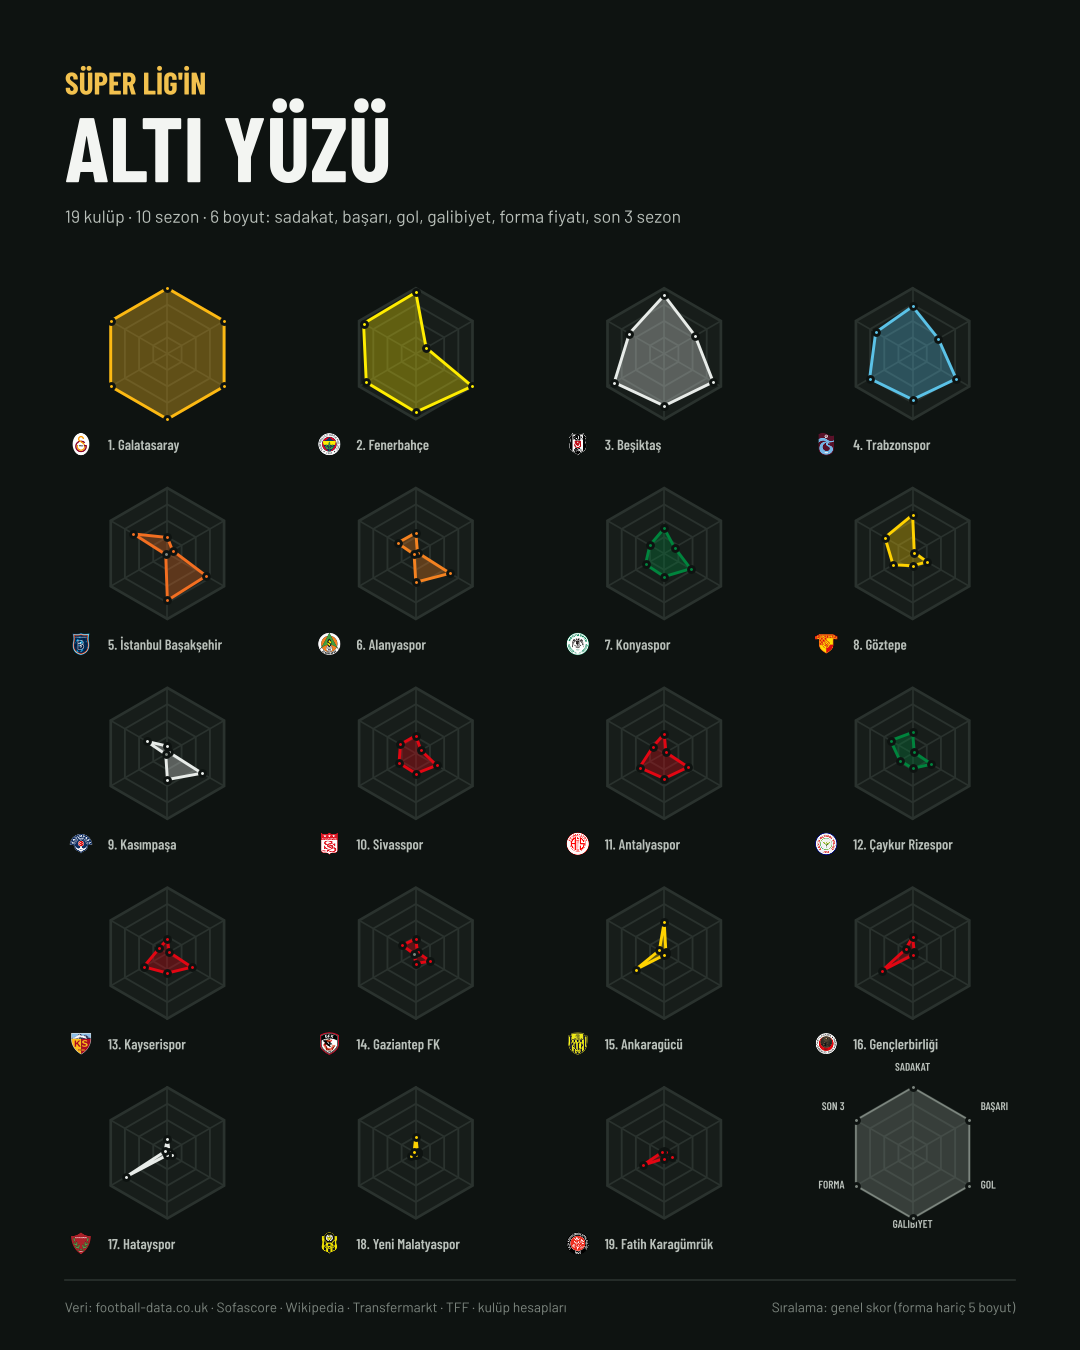
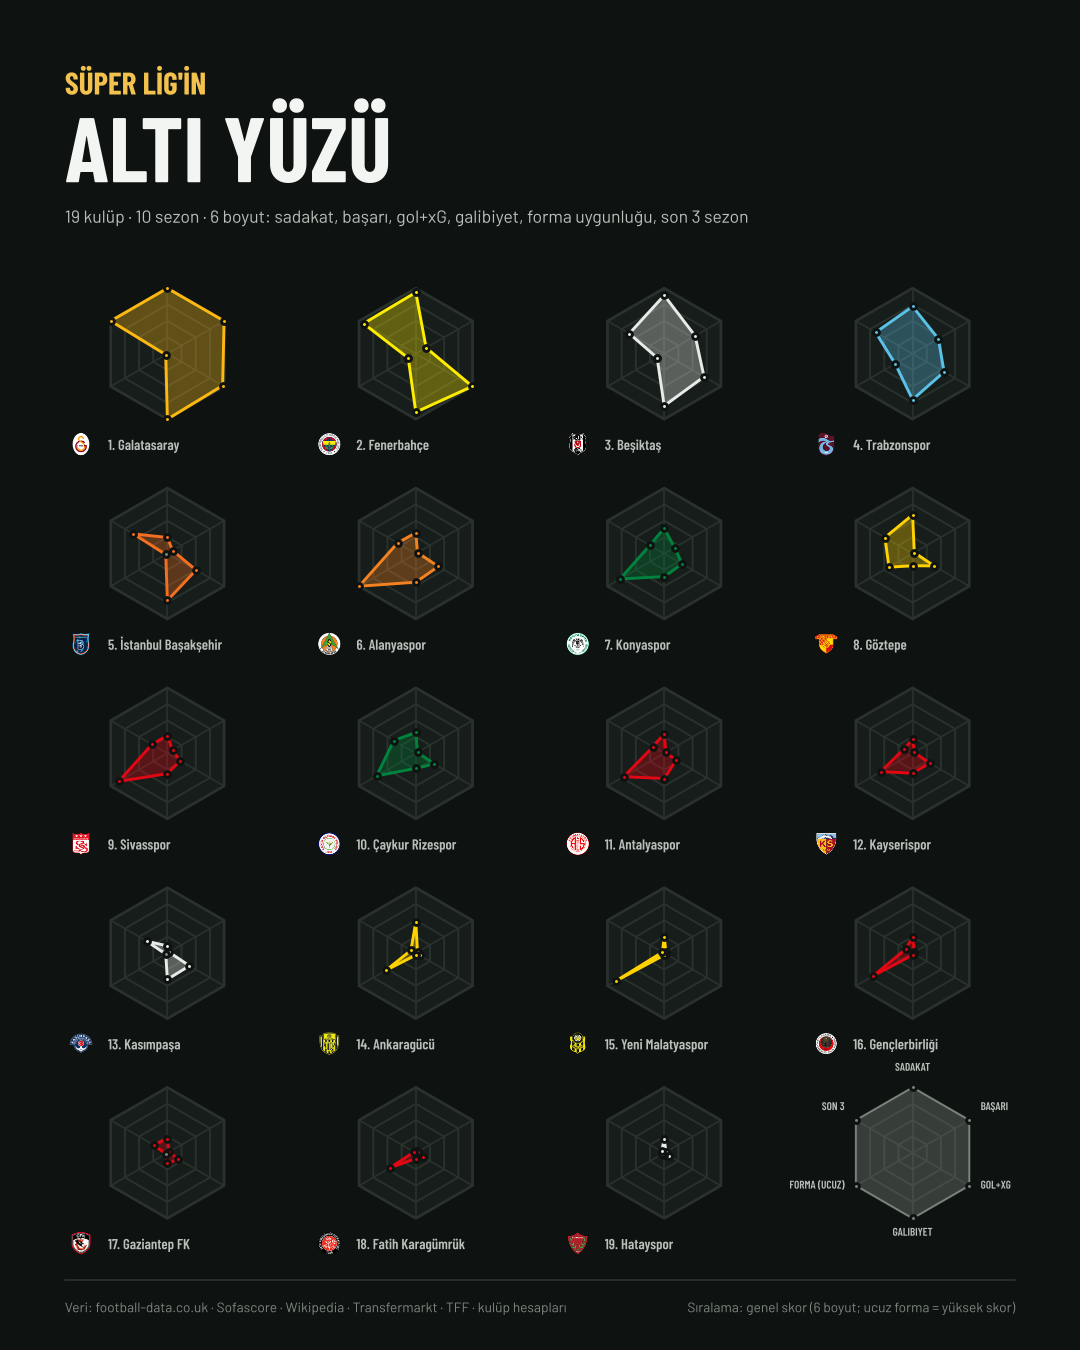
Radar: forma ters yönlü (sezon medyanına göre fiyat endeksi), gol ekseni gol + xG; genel skor 6 boyut
Claude-Session: https://claude.ai/code/session_01ReEgfLLAVrHg6JcMw2u4FY

diff --git a/superlig/insta.py b/superlig/insta.py
@@ -125,6 +125,8 @@ def radar(ax, scores, color, avg=None, labels=None, label_vals=None, lw=2.4, lab
                    edgecolor=BG, linewidth=1.4, zorder=5)
     if labels:
         for (x, y), lab, v in zip(_hex_points(1.2), labels, label_vals or [None] * 6):
+            if y < -1:  # alt etiket köşeye değmesin
+                y -= 0.12 if v is None else 0.0
             ha = "center" if abs(x) < 0.1 else ("left" if x > 0 else "right")
             ax.text(x, y + 0.02, lab.upper(), ha=ha, va="bottom", fontsize=label_size * 0.72, color=INK2,
                     family=COND, weight="semibold")
@@ -139,9 +141,9 @@ def _forma_sub(row):
     if pd.isna(n):
         return "fiyat verisi bulunamadı"
     if n < 2:
-        return f"reel ort. · yalnız {row.forma_ilk_sezon} ({_tr(row.forma_ort_TL)} TL)"
-    return (f"{row.forma_ilk_sezon[:4]}–{row.forma_son_sezon[2:4]}: {_pct(row.forma_artis_yuzde)} "
-            f"(reel {_pct(row.get('forma_reel_artis_yuzde'))}) · {int(n)} sz")
+        return f"sezon medyanı ×{_tr(row.forma_endeks, 2)} · yalnız {row.forma_ilk_sezon}"
+    return (f"medyan ×{_tr(row.forma_endeks, 2)} · {row.forma_ilk_sezon[:4]}–{row.forma_son_sezon[2:4]}: "
+            f"{_pct(row.forma_artis_yuzde)} (reel {_pct(row.get('forma_reel_artis_yuzde'))})")
 
 
 def _pct(x):
@@ -169,7 +171,7 @@ def team_card(row, avg, rank, n, path):
     vals = ["veri yok" if pd.isna(v) else _tr(v) for v in scores]
     radar(ax, scores, col, avg=avg, labels=[l for _, l in scorecard.AXES], label_vals=vals)
     fig.add_artist(plt.Line2D([0.235, 0.275], [0.338, 0.338], color=MUTED, lw=1.1, ls=(0, (3, 2.5))))
-    _text(fig, 0.285, 0.338, "lig ortalaması (19 kulüp)  ·  skorlar 0-100  ·  genel skor forma hariç", 7.2, MUTED,
+    _text(fig, 0.285, 0.338, "lig ortalaması (19 kulüp)  ·  skorlar 0-100  ·  forma: ucuz = yüksek skor", 7.2, MUTED,
           va="center")
 
     tiles = [
@@ -177,7 +179,7 @@ def team_card(row, avg, rank, n, path):
          f"doluluk · {_compact(row.get('takipci_toplam'))} takipçi ({_tr(row.get('takipci_platform'))} platform)"),
         ("BAŞARI", _tr(row.get("kupa_10y")) + (" kupa" if pd.notna(row.get("kupa_10y")) else ""),
          f"Lig {_tr(row.get('super_lig'))} · Kupa {_tr(row.get('turkiye_kupasi'))} · Süper K. {_tr(row.get('super_kupa'))}"),
-        ("GOL", _tr(row.gol_10y), f"maç başı {_tr(row.gol_10y / row.mac, 2)}"
+        ("GOL + xG", _tr(row.gol_10y), f"maç başı {_tr(row.gol_10y / row.mac, 2)}"
          + (f" · xG {_tr(row.xg_mac_basi, 2)} (22-26)" if pd.notna(row.get("xg_mac_basi")) else f" · {_tr(row.sezon_sayisi)} sezon")),
         ("GALİBİYET", _tr(row.galibiyet_10y), f"{_tr(row.mac)} maçta · %{_tr(row.galibiyet_10y / row.mac * 100)}"),
         ("FORMA", (_tr(row.get("forma_reel_ort_TL")) + " TL") if pd.notna(row.get("forma_reel_ort_TL")) else "—",
@@ -204,7 +206,7 @@ def cover(df, avg, path):
     fig = _fig()
     _text(fig, 0.06, 0.93, "SÜPER LİG'İN", 15, GOLD, COND, "bold")
     _text(fig, 0.06, 0.865, "ALTI YÜZÜ", 44, INK, COND, "bold")
-    _text(fig, 0.06, 0.835, "19 kulüp · 10 sezon · 6 boyut: sadakat, başarı, gol, galibiyet, forma fiyatı, son 3 sezon",
+    _text(fig, 0.06, 0.835, "19 kulüp · 10 sezon · 6 boyut: sadakat, başarı, gol+xG, galibiyet, forma uygunluğu, son 3 sezon",
           8.4, INK2)
     cols, rows = 4, 5
     gx0, gy0, cw, ch = 0.04, 0.07, 0.23, 0.148
@@ -218,9 +220,9 @@ def cover(df, avg, path):
     # son hücre: eksen açıklaması
     x, y = gx0 + 3 * cw, gy0
     ax = fig.add_axes([x, y + 0.012, cw, ch - 0.02])
-    radar(ax, [100] * 6, MUTED, lw=0.8, labels=["Sadakat", "Başarı", "Gol", "Galibiyet", "Forma", "Son 3"],
+    radar(ax, [100] * 6, MUTED, lw=0.8, labels=["Sadakat", "Başarı", "Gol+xG", "Galibiyet", "Forma (ucuz)", "Son 3"],
           label_size=7.5)
-    _footer(fig, "Sıralama: genel skor (forma hariç 5 boyut)")
+    _footer(fig, "Sıralama: genel skor (6 boyut; ucuz forma = yüksek skor)")
     fig.savefig(path, dpi=DPI, facecolor=BG)
     plt.close(fig)
 
@@ -231,11 +233,12 @@ METRIC_SLIDES = [
      lambda r: f"%{_tr(r.get("doluluk_10y", float("nan")) * 100)} doluluk · {_compact(r.get("takipci_toplam"))} takipçi" if pd.notna(r.get("doluluk_10y")) else _compact(r.get("takipci_toplam"))),
     ("basari", "BAŞARI", "10 yılda Süper Lig + Türkiye Kupası + Süper Kupa", "kupa_10y",
      lambda r: f"{_tr(r.kupa_10y)} kupa"),
-    ("gol", "GOL", "10 yılda Süper Lig'de atılan gol", "gol_10y", lambda r: f"{_tr(r.gol_10y)}  ({int(r.sezon_sayisi)} sz)"),
+    ("gol", "GOL + xG", "Skor: 10 yıllık lig golü + maç başı xG (2022-26), eşit ağırlık", "skor_gol",
+     lambda r: f"{_tr(r.gol_10y)} gol · xG/maç {_tr(r.get('xg_mac_basi'), 2)}"),
     ("galibiyet", "GALİBİYET", "10 yılda Süper Lig galibiyeti", "galibiyet_10y",
      lambda r: f"{_tr(r.galibiyet_10y)}  ({int(r.sezon_sayisi)} sz)"),
-    ("forma", "FORMA FİYATI", "10 yıllık ev forması ortalaması (TÜFE ile reel, güncel TL)", "forma_reel_ort_TL",
-     lambda r: f"{_tr(r.forma_reel_ort_TL)} TL reel · {int(r.forma_sezon)} sz"),
+    ("forma", "FORMA UYGUNLUĞU", "Ucuzdan pahalıya: ev forması fiyatı ÷ aynı sezonun medyan fiyatı (ortalama)", "skor_forma",
+     lambda r: f"medyan ×{_tr(r.forma_endeks, 2)} · reel {_tr(r.forma_reel_ort_TL)} TL · {int(r.forma_sezon)} sz"),
     ("form", "SON 3 SEZON", "2023-24 – 2025-26 puan ortalaması", "son3_puan_ort",
      lambda r: f"{_tr(r.son3_puan_ort, 1)} p · ort. sıra {_tr(r.son3_sira_ort, 1)}"),
 ]
@@ -258,7 +261,7 @@ def metric_slide(df, key, title, subtitle, col, fmt, path, page, weak=None, weak
         _text(fig, 0.075, y, str(i + 1), 13, GOLD if i < 3 else MUTED, COND, "bold", ha="right", va="center")
         _place_logo(fig, r.takim, 0.115, y, 34)
         _text(fig, 0.15, y, r.takim, 12, INK, COND, "semibold", va="center")
-        x0, wmax = 0.42, 0.31
+        x0, wmax = 0.42, 0.25
         w = wmax * (r[col] / vmax if vmax else 0)
         low = bool(weak(r)) if weak else False
         fig.add_artist(FancyBboxPatch((x0, y - rowh * 0.24), max(w, 0.004), rowh * 0.48,

diff --git a/superlig/scorecard.py b/superlig/scorecard.py
@@ -3,9 +3,9 @@
 Boyutlar:
  1. Sadakat   : 10 yıllık ortalama doluluk (seyirci/kapasite) + sosyal medya takipçisi (log, normalize)
  2. Başarı    : 10 yılda Süper Lig + Türkiye Kupası + Süper Kupa sayısı
- 3. Gol       : 10 yılda lig golü toplamı
+ 3. Gol + xG  : 10 yılda lig golü toplamı + maç başı xG (2022-26), eşit ağırlık
  4. Galibiyet : 10 yılda lig galibiyeti toplamı
- 5. Forma     : 10 yıllık ev forması ortalama fiyatı, ilk→son artış %, TÜFE ile reel fiyat
+ 5. Forma     : 10 yıllık ev forması reel ortalama fiyatı — TERS yönlü (ucuz = yüksek skor)
  6. Form      : son 3 sezon puan ortalaması + sıralama ortalaması
 
 Alt ajan çıktıları data/agents/<ad>/ altından okunur; dosya yoksa ilgili kolonlar boş kalır.
@@ -25,8 +25,8 @@ TEAMS19 = ["Galatasaray", "Fenerbahçe", "Beşiktaş", "Trabzonspor", "İstanbul
 AG = config.DATA / "agents"
 LAST3 = config.SEASONS[-3:]
 PLATFORMS = ["Instagram", "X", "Facebook", "TikTok", "YouTube"]
-AXES = [("sadakat", "Sadakat"), ("basari", "Başarı"), ("gol", "Gol"), ("galibiyet", "Galibiyet"),
-        ("forma", "Forma fiyatı"), ("form", "Son 3 sezon")]
+AXES = [("sadakat", "Sadakat"), ("basari", "Başarı"), ("gol", "Gol + xG"), ("galibiyet", "Galibiyet"),
+        ("forma", "Forma uygunluğu"), ("form", "Son 3 sezon")]
 
 
 def _read(path, **kw):
@@ -108,7 +108,10 @@ def build() -> pd.DataFrame:
                 return float(c.tufe_2003_100.iloc[-1]) if not c.empty else np.nan
             f["reel_fiyat_TL"] = f.fiyat_TL * base / f.sezon.map(deflator)
             df.attrs["reel_baz"] = base_lbl
+        # Dönem yanlılığını gidermek için: fiyat / aynı sezondaki tüm kulüplerin medyan fiyatı
+        f["sezon_endeksi"] = f.fiyat_TL / f.groupby("sezon").fiyat_TL.transform("median")
         agg = f.groupby("takim").agg(forma_sezon=("sezon", "size"), forma_ort_TL=("fiyat_TL", "mean"),
+                                     forma_endeks=("sezon_endeksi", "mean"),
                                      forma_ilk_sezon=("sezon", "min"), forma_son_sezon=("sezon", "max"))
         first = f.sort_values("sezon").groupby("takim").fiyat_TL.first()
         last = f.sort_values("sezon").groupby("takim").fiyat_TL.last()
@@ -135,16 +138,22 @@ def build() -> pd.DataFrame:
         parts.append(df.sosyal_skor)
     sc["sadakat"] = pd.concat(parts, axis=1).mean(axis=1) if parts else np.nan
     sc["basari"] = _minmax(df.kupa_10y) if "kupa_10y" in df else np.nan
-    sc["gol"] = _minmax(df.gol_10y)
+    # Gol: 10 yıllık lig golü + maç başı xG (2022-23 – 2025-26) eşit ağırlık; xG yoksa yalnız gol
+    sc["gol_ham"] = _minmax(df.gol_10y)
+    sc["xg_ham"] = _minmax(df.xg_mac_basi) if "xg_mac_basi" in df else np.nan
+    sc["gol"] = sc[["gol_ham", "xg_ham"]].mean(axis=1)
+    sc = sc.drop(columns=["gol_ham", "xg_ham"])
     sc["galibiyet"] = _minmax(df.galibiyet_10y)
-    col = "forma_reel_ort_TL" if "forma_reel_ort_TL" in df else ("forma_ort_TL" if "forma_ort_TL" in df else None)
-    sc["forma"] = _minmax(df[col]) if col else np.nan
+    # Forma ters yönlü: sezon medyanına göre ucuz forma = yüksek skor
+    sc["forma"] = _minmax(df.forma_endeks, invert=True) if "forma_endeks" in df else np.nan
     sc["form"] = pd.concat([_minmax(df.son3_puan_ort), _minmax(df.son3_sira_ort, invert=True)], axis=1).mean(axis=1)
     sc.loc[df.son3_sezon.isna(), "form"] = 0.0  # son 3 sezonda hiç Süper Lig'de değil
     sc.columns = [f"skor_{c}" for c in sc.columns]
     out = df.join(sc)
-    # Genel skor: forma fiyatı hariç 5 boyutun ortalaması (pahalı forma bir başarı ölçüsü değildir)
-    out["genel_skor"] = out[[f"skor_{k}" for k, _ in AXES if k != "forma"]].mean(axis=1)
+    # Genel skor: 6 boyutun ortalaması (forma ters yönlü: pahalı forma skoru düşürür).
+    # Verisi olmayan boyut (ör. forma fiyatı bulunamayan kulüp) ortalamaya girmez.
+    out["genel_skor"] = out[[f"skor_{k}" for k, _ in AXES]].mean(axis=1)
+    out["genel_boyut_sayisi"] = out[[f"skor_{k}" for k, _ in AXES]].notna().sum(axis=1)
     out = out.reset_index()
     out.to_csv(config.DATA / "skor_karti.csv", index=False)
     return out

diff --git a/README.md b/README.md
@@ -124,12 +124,14 @@ Birleşik tablo: `data/skor_karti.csv`.
 |---|---|---|
 | Sadakat | 10 yıllık doluluk (2021-22 COVID kısıtlı sezon hariç) ve 5 platform takipçisinin log ölçekli skoru, eşit ağırlık | seyirci + sosyal ajanları |
 | Başarı | Süper Lig + Türkiye Kupası + Süper Kupa (2016-17 – 2025-26) | kupalar ajanı |
-| Gol / Galibiyet | 10 yılda lig golü / galibiyeti toplamı | matches.csv |
-| Forma | Bulunan sezonların TÜFE ile güncel TL'ye çevrilmiş ortalaması; ilk→son nominal ve reel artış | forma ajanı |
+| Gol + xG | 10 yıllık lig golü ve maç başı xG (2022-23 – 2025-26) eşit ağırlık; xG yoksa yalnız gol | matches.csv + xg ajanı |
+| Galibiyet | 10 yılda lig galibiyeti toplamı | matches.csv |
+| Forma uygunluğu | **Ters yönlü**: kulübün ev forması fiyatı ÷ aynı sezondaki kulüplerin medyan fiyatı; ortalaması düşük olan yüksek skor alır (dönem yanlılığını giderir). Kartta reel (TÜFE) fiyat ve ilk→son artış da gösterilir | forma ajanı |
 | Son 3 sezon | 2023-24 – 2025-26 resmi puan (TFF puan silmeleri dahil) ve sıra ortalaması | team_season.csv |
 
-Her boyut 19 kulüp arasında min-max ile 0-100'e ölçeklenir. **Genel skor forma hariç 5 boyutun ortalamasıdır**
-(pahalı forma bir başarı ölçüsü değildir). Son 3 sezonda hiç ligde olmayan kulübün o ekseni 0'dır.
+Her boyut 19 kulüp arasında min-max ile 0-100'e ölçeklenir. **Genel skor 6 boyutun ortalamasıdır**; forma ters yönlü
+olduğu için pahalı forma genel skoru düşürür. Verisi olmayan boyut (forma fiyatı bulunamayan 3 kulüp) ortalamaya
+girmez. Son 3 sezonda hiç ligde olmayan kulübün o ekseni 0'dır.
 Sınırlamalar: forma fiyatı 66/190 hücre (Başakşehir, Kasımpaşa, Gaziantep FK'da hiç yok; tek sezonluk değerler
 düşük güvenli olarak işaretli), xG yalnızca son 4 sezon, Fatih Karagümrük doluluğu stat kapasitesi belirsizliği
 nedeniyle güvenilir değil.
